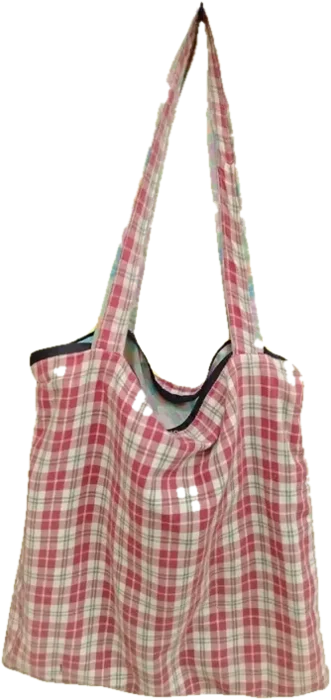
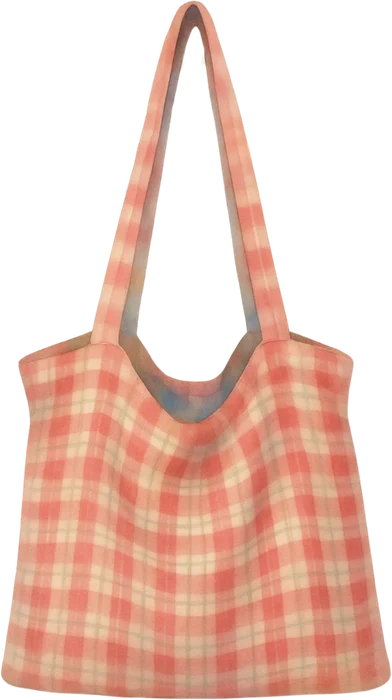
studio: Góc thử đồ as Anna asked — drawn bags, old close-ups, no laptop / origami; strap pieced across only
- 4 bag mẫu use Anna's drawings (the poster cut ate into the knotted
  strap); tools/wear-cuts.py leaves them (DRAWN)
- Dây đeo cổ tay and Bloom Charm keep their old drawings in the corner,
  like the scrunchie (GemWear.MAC)
- the laptop sleeve and the Origami pouch are not tried on
  (20261025b_thu_do_bot.sql, run); one's own designs: bags only
- Bàn thiết kế: the wrist strap has no "Ghép dọc" any more; an old code of
  it opens "Ghép ngang", both fabrics kept

Claude-Session: https://claude.ai/code/session_01XuGc1emL7LJH73FGACZt11

diff --git a/js/patch.js b/js/patch.js
@@ -87,9 +87,8 @@
     // (top / bottom half) or along it (left / right half) (Anna 22/10); a
     // machine stitch can run down its middle (opts e: Gem's Janome)
     daydeo:    { sku: 'daydeo',    vi: 'Dây đeo cổ tay', en: 'Wrist strap',     shape: 'strap', grid: 1, span: 30,
-                 layouts: ['mot', 'ngang', 'doc', 'tuve'], opts: 'e',
-                 names: { mot: { vi: 'Một vải', en: 'One fabric' }, ngang: { vi: 'Ghép ngang', en: 'Pieced across' },
-                          doc: { vi: 'Ghép dọc', en: 'Pieced lengthwise' } } },
+                 layouts: ['mot', 'ngang', 'tuve'], opts: 'e',
+                 names: { mot: { vi: 'Một vải', en: 'One fabric' }, ngang: { vi: 'Ghép ngang', en: 'Pieced across' } } },
     // Bags: one tab "Túi", the shape picked on it (from Gem's own bags, and
     // two shapes many makers sew); the laptop sleeve is a tab of its own,
     // with or without a shoulder strap. A designed bag is ordered as the
@@ -149,7 +148,9 @@
   // now piece the one side, across)
   // (the origami's "hai" was every other sector of the hexagon: its two
   // fabrics become the base and the petals; its cut lines, one fabric)
-  var LEGACY = { bloom: { mot: 'hoa3', hai: 'hoa3', net: 'hoa3' }, bookmark: { vuong: 'hai', net: 'mot' }, daydeo: { net: 'mot', hai: 'ngang' },
+  // (the strap's "doc", two strips along it, is gone: Anna 25/10 keeps only
+  // "ghép ngang"; its two fabrics piece it across)
+  var LEGACY = { bloom: { mot: 'hoa3', hai: 'hoa3', net: 'hoa3' }, bookmark: { vuong: 'hai', net: 'mot' }, daydeo: { net: 'mot', hai: 'ngang', doc: 'ngang' },
     origami: { hai: 'canh', net: 'mot' } };
   var PRODUCT_ORDER = ['goi', 'lotcoc', 'scrunchie', 'origami', 'oxford', 'bloom', 'bookmark', 'daydeo', 'tuitote', 'laptop'];
 
@@ -915,7 +916,6 @@
       return [nen].concat([1, 2, 3, 4, 5, 6].map(function (n) { return canh + ' ' + n; }));
     }
     if (d.product === 'daydeo' && d.layout === 'ngang') return [vi ? 'Nửa trên' : 'Top half', vi ? 'Nửa dưới' : 'Bottom half'];
-    if (d.product === 'daydeo' && d.layout === 'doc') return [vi ? 'Nửa trái' : 'Left half', vi ? 'Nửa phải' : 'Right half'];
     var parts = partsOf(d);
     if (!parts.length || !MAIN_NAMES[d.product]) return null;
     var n = slots(d), out = [];
@@ -1569,7 +1569,7 @@
     } },
     // the strap stands upright, its middle on x 170 (measured on the mask):
     // pieced across at y 120 (its middle), along it at x 170
-    strap: { n: 'daydeo', top: 1, strap: { x: 170, y: 120 } },
+    strap: { n: 'daydeo', top: 1, strap: { y: 120 } },
     // the corner bookmark: a square back and a triangle flap that slips over
     // the corner of a page
     bookmark: { n: 'bookmark', diag: 1 },
@@ -1691,12 +1691,6 @@
       out += '<rect width="340" height="' + sy + '" fill="' + f(0, [0, 0, 340, sy]) + '"/>' +
         '<rect y="' + sy + '" width="340" height="' + (340 - sy) + '" fill="' + f(1, [0, sy, 340, 340 - sy]) + '"/>' +
         '<path d="M0 ' + sy + 'H340' + SEAM;
-    } else if (A.strap && d.layout === 'doc') {
-      // the strap: two strips along it, the seam down the middle
-      var sx = A.strap.x;
-      out += '<rect width="' + sx + '" height="340" fill="' + f(0, [0, 0, sx, 340]) + '"/>' +
-        '<rect x="' + sx + '" width="' + (340 - sx) + '" height="340" fill="' + f(1, [sx, 0, 340 - sx, 340]) + '"/>' +
-        '<path d="M' + sx + ' 0V340' + SEAM;
     } else if (d.layout === 'hai' && A.diag) {
       // the bookmark: the square back (0) and the triangle flap (1)
       out += '<path d="M0 0L0 340L340 340Z" fill="' + f(0, FULL) + '"/><path d="M0 0L340 0L340 340Z" fill="' + f(1, FULL) + '"/>' +

diff --git a/js/wear.js b/js/wear.js
@@ -40,29 +40,29 @@ window.GemWear = (function () {
     scrunchie: { slot: 'hair',  h: 0.075, dy: 0,     ax: 0.55, ay: 0.5,  img: 'images/studio/wear/scrunchie.webp' }
   };
 
-  // A piece sewn from one's design (GemPatch product id): how it is worn.
+  // A bag sewn from one's design (GemPatch product id): how it is worn.
   // The picture is GemPatch.svg of the design, its viewBox cut to the
-  // piece (box: x, y, w, h of the 340 board); ax / ay on that box. Not the
-  // scrunchie: on the character it reads as a hair flower (Anna 25/10).
+  // piece (box: x, y, w, h of the 340 board); ax / ay on that box. Bags
+  // only (Anna 25/10): not the laptop sleeve, and the small pieces keep
+  // their own drawings (MAC)
   var DESIGN = {
-    origami:   { slot: 'charm', h: 0.09, ax: 0.15, ay: 0,   box: [1, 1, 338, 339] },
     oxford:    { slot: 'bag',   h: 0.2,  ax: 0.49, ay: 0,   box: [47, 0, 246, 340] },
-    bloom:     { slot: 'charm', h: 0.1,  ax: 0.5,  ay: 0,   box: [83, 0, 174, 340] },
-    daydeo:    { slot: 'wrist', h: 0.13, ax: 0.5,  ay: 0,   box: [136, 0, 68, 340] },
     tuitote:   { slot: 'bag',   h: 0.34, ax: 0.5,  ay: 0,   box: [60, 0, 220, 340] },
     tuino:     { slot: 'bag',   h: 0.28, ax: 0.6,  ay: 0,   box: [19, 0, 302, 340] },
     tuikhoa:   { slot: 'bag',   h: 0.3,  ax: 0.49, ay: 0,   box: [22, 0, 296, 340] },
     tuitamgiac: { slot: 'bag',  h: 0.28, ax: 0.5,  ay: 0,   box: [0, 0, 340, 340] },
-    tuibuoc:   { slot: 'bag',   h: 0.28, ax: 0.5,  ay: 0,   box: [0, 0, 340, 340] },
-    laptop:    { slot: 'bag',   h: 0.2,  ax: 0.5,  ay: 0,   box: [0, 70, 340, 200] },
-    laptopq:   { slot: 'bag',   h: 0.25, ax: 0.5,  ay: 0,   box: [0, 37, 340, 266] }
+    tuibuoc:   { slot: 'bag',   h: 0.28, ax: 0.5,  ay: 0,   box: [0, 0, 340, 340] }
   };
 
   // A drawing of the piece being worn, shown in the fitting corner in place
-  // of the character: a hair tie on a character facing us is a dot by the
-  // ear; the drawing shows it holding a ponytail (Anna 25/10: "phải kiểu
-  // đeo như cũ")
-  var MAC = { scrunchie: 'images/studio/wear/scrunchie-mac.webp' };
+  // of the character, as it always was (Anna 25/10: "phải kiểu đeo như
+  // cũ"): a hair tie on a character facing us is a dot by the ear; the
+  // wrist strap and the charm hang from a bag on the shoulder
+  var MAC = {
+    scrunchie: 'images/studio/wear/scrunchie-mac.webp',
+    daydeo: 'images/studio/wear/daydeo-mac.webp',
+    bloom: 'images/studio/wear/bloom-mac.webp'
+  };
 
   var IMG = /^(images\/studio\/[a-z0-9\/_-]+\.(webp|png)|https:\/\/dxdovvqsfjeizsoprrfn\.supabase\.co\/storage\/v1\/object\/public\/gem-media\/[A-Za-z0-9%._-]+)$/;
   function num(v, lo, hi, d) { return typeof v === 'number' && isFinite(v) ? Math.min(hi, Math.max(lo, v)) : d; }

diff --git a/studio.html b/studio.html
@@ -13,9 +13,9 @@
   <link rel="preconnect" href="https://fonts.gstatic.com" crossorigin>
   <link href="https://fonts.googleapis.com/css2?family=Be+Vietnam+Pro:wght@300;400;500;600&family=Dancing+Script:wght@400;500;600&family=Nunito:wght@400;500;600;700;800&display=swap" rel="stylesheet">
   <link rel="preload" as="image" href="images/studio/bg/ngoai.webp">
-  <link rel="stylesheet" href="css/style.css?v=20261071">
-  <link rel="stylesheet" href="css/studio.css?v=20261071">
-  <script src="js/i18n.js?v=20261071" defer></script>
+  <link rel="stylesheet" href="css/style.css?v=20261072">
+  <link rel="stylesheet" href="css/studio.css?v=20261072">
+  <script src="js/i18n.js?v=20261072" defer></script>
 </head>
 <body class="studio-page" data-basket data-order-source="studio">
 
@@ -85,16 +85,16 @@
     </div>
   </div>
 
-  <script src="js/gem-db.js?v=20261071" defer></script>
-  <script src="js/vietqr.js?v=20261071" defer></script>
+  <script src="js/gem-db.js?v=20261072" defer></script>
+  <script src="js/vietqr.js?v=20261072" defer></script>
   <!-- patch.js: thiết kế riêng từ bàn chắp vải (giỏ hàng vẽ lại và ghi vào đơn) -->
-  <script src="js/patch.js?v=20261071" defer></script>
+  <script src="js/patch.js?v=20261072" defer></script>
   <!-- collection.js: Tủ sưu tầm, lưu trên máy khách (sau patch.js, trước basket.js) -->
-  <script src="js/collection.js?v=20261071" defer></script>
-  <script src="js/basket.js?v=20261071" defer></script>
-  <script src="js/studio-layout.js?v=20261071" defer></script>
+  <script src="js/collection.js?v=20261072" defer></script>
+  <script src="js/basket.js?v=20261072" defer></script>
+  <script src="js/studio-layout.js?v=20261072" defer></script>
   <!-- wear.js: Góc thử đồ, chỗ đeo trên nhân vật (dùng chung với admin.html) -->
-  <script src="js/wear.js?v=20261071" defer></script>
-  <script src="js/studio.js?v=20261071" defer></script>
+  <script src="js/wear.js?v=20261072" defer></script>
+  <script src="js/studio.js?v=20261072" defer></script>
 </body>
 </html>

diff --git a/admin.html b/admin.html
@@ -10,20 +10,20 @@
   <link rel="preconnect" href="https://fonts.googleapis.com">
   <link rel="preconnect" href="https://fonts.gstatic.com" crossorigin>
   <link href="https://fonts.googleapis.com/css2?family=Be+Vietnam+Pro:wght@300;400;500;600&family=Nunito:wght@400;500;600;700;800&display=swap" rel="stylesheet">
-  <link rel="stylesheet" href="css/style.css?v=20261071">
-  <link rel="stylesheet" href="css/admin.css?v=20261071">
+  <link rel="stylesheet" href="css/style.css?v=20261072">
+  <link rel="stylesheet" href="css/admin.css?v=20261072">
 </head>
 <body class="admin-body">
 
   <!-- Toàn bộ giao diện dựng bởi js/admin.js -->
   <div id="admin-root"></div>
 
-  <script src="js/gem-db.js?v=20261071"></script>
-  <script src="js/img-tools.js?v=20261071" defer></script>
-  <script src="js/patch.js?v=20261071" defer></script>
-  <script src="js/studio-layout.js?v=20261071" defer></script>
-  <script src="js/studio-editor.js?v=20261071" defer></script>
-  <script src="js/wear.js?v=20261071" defer></script>
-  <script src="js/admin.js?v=20261071" defer></script>
+  <script src="js/gem-db.js?v=20261072"></script>
+  <script src="js/img-tools.js?v=20261072" defer></script>
+  <script src="js/patch.js?v=20261072" defer></script>
+  <script src="js/studio-layout.js?v=20261072" defer></script>
+  <script src="js/studio-editor.js?v=20261072" defer></script>
+  <script src="js/wear.js?v=20261072" defer></script>
+  <script src="js/admin.js?v=20261072" defer></script>
 </body>
 </html>

diff --git a/tools/check-studio.py b/tools/check-studio.py
@@ -3653,10 +3653,10 @@ async def guidance(browser, db):
     await pg.wait_for_timeout(300)
     got = [await at(170, 60), await at(170, 200)]
     check(got == [0, 1], f'"Ghép ngang": top half and bottom half ({got})')
-    await js_click(pg, '.pt-layouts [data-layout="doc"]')
-    await pg.wait_for_timeout(300)
-    got = [await at(152, 150), await at(188, 150)]
-    check(got == [0, 1], f'"Ghép dọc": left half and right half, each takes its own tap ({got})')
+    # "Ghép dọc" is gone (Anna 25/10): an old code of it opens pieced across
+    lays = await pg.evaluate("[...document.querySelectorAll('.pt-layouts [data-layout]')].map(b => b.dataset.layout)")
+    old = await pg.evaluate("(() => { const d = GemPatch.parse('2~daydeo~doc~~~~~~~~AB'); return d && [d.layout, d.fab]; })()")
+    check('doc' not in lays and 'ngang' in lays and old == ['ngang', 'AB'], f'the strap: "Ghép ngang" only; an old "ghép dọc" code opens across ({lays}, {old})')
     check(await pg.evaluate("document.querySelectorAll('.pt-board image[href*=\"mon-daydeo-mask\"]').length") == 1, 'one strap, not two')
     # an old two-sided code: its two fabrics piece the one side, across
     old = await pg.evaluate("(() => { const d = GemPatch.parse('2~daydeo~hai~~~~~~~~AB'); return d && [d.layout, d.fab]; })()")
@@ -3669,12 +3669,12 @@ async def guidance(browser, db):
     await js_click(pg, '[data-stitch="5"]')
     await js_click(pg, '[data-thread="2"]')
     await pg.wait_for_timeout(300)
-    rt = await pg.evaluate("(() => { const d = GemPatch.parse('2~daydeo~doc~~~~~~~~AB~~e52'); return d && [d.ext.e, d.ext.ec, GemPatch.encode(d).split('~').pop()]; })()")
+    rt = await pg.evaluate("(() => { const d = GemPatch.parse('2~daydeo~ngang~~~~~~~~AB~~e52'); return d && [d.ext.e, d.ext.ec, GemPatch.encode(d).split('~').pop()]; })()")
     check(rt == [5, 2, 'e52'], f'the stitch travels in the design code ({rt})')
     check(await pg.evaluate("GemPatch.parse('2~goi~mot~~~~~~~~A~~e52') === null"), 'a cushion takes no stitch')
     lines = await pg.evaluate("document.querySelector('.pt-price-lines').textContent")
     check('Thêu chỉ giữa dây' in lines, f'the stitch is in the price ({lines})')
-    order = await pg.evaluate("GemPatch.describe('2~daydeo~doc~~~~~~~~AB~~e52', 'vi')")
+    order = await pg.evaluate("GemPatch.describe('2~daydeo~ngang~~~~~~~~AB~~e52', 'vi')")
     check('thêu chỉ giữa dây: hình thoi, chỉ đỏ gạch' in order, f'the order says which stitch, which thread ({order})')
     # a bag's handle takes it too (not drawn); the sleeve without a handle does not
     await js_click(pg, '.pt-tab[data-product="tuitote"]')
@@ -3926,6 +3926,14 @@ async def thudo(browser, db):
         ox = await pg.evaluate(vis)
         check(sc == [True, False, 'images/studio/wear/scrunchie-mac.webp'] and ox[:2] == [False, True],
               f'{name}: Dây buộc tóc shows its close-up as before; Oxford, the character ({sc}, {ox[:2]})')
+        # the wrist strap and the charm too: their drawings, as before
+        mac = []
+        for sku in ('daydeo', 'bloom'):
+            await js_click(pg, f'.fit-pick[data-try="{sku}"]')
+            await pg.wait_for_timeout(200)
+            mac.append(await pg.evaluate(vis))
+        check(mac == [[True, False, 'images/studio/wear/daydeo-mac.webp'], [True, False, 'images/studio/wear/bloom-mac.webp']],
+              f'{name}: Dây đeo cổ tay, Bloom Charm: their own drawings as before ({mac})')
         # the bag with Mẫu: its chips, each its own picture; the one sold out shown, not bought
         await js_click(pg, '[data-try="tui-di-choi/jeans-xanh"]')
         await pg.wait_for_timeout(300)

diff --git a/tools/wear-cuts.py b/tools/wear-cuts.py
@@ -10,6 +10,9 @@ of it caught between the straps. Small cream bits of a print stay.
 
     python3 tools/wear-cuts.py              → images/studio/wear/<sku>-<mẫu>.webp
 
+Mẫu Gem has a drawing of (DRAWN, sent by Anna 25/10: the photo cut ate into
+the knotted strap) are not cut: their drawing is the picture.
+
 The migration (supabase/migrations/20261025_thu_do.sql) points each mẫu's
 "cut" at its file. A new mẫu later: Admin → Sản phẩm → Sửa → the mẫu's
 "Ảnh cắt nền" (Xoá nền trắng / a file), no need to run this again.
@@ -29,6 +32,8 @@ TOL = 22                      # how far from the poster's paper a pixel is the b
 BAND = (0.04, 0.84)           # between the header and the big title
 GLOW = (240, 229, 173)        # the cream glow round the bag
 MAX = 700                     # longest side of the result
+# drawn by Gem (transparent PNGs, cropped + shrunk into images/studio/wear/)
+DRAWN = {'tui-di-choi-hoa-xanh', 'tui-di-cho-caro-hong', 'tui-di-choi-jeans-hong', 'tui-di-choi-jeans-vang'}
 
 
 def cut(path):
@@ -79,6 +84,9 @@ def main():
         if path.endswith('-thumb.webp'):
             continue
         name = os.path.basename(path)[len('vai-vun-'):-len('.webp')]
+        if name in DRAWN:
+            print(name, 'drawn, kept')
+            continue
         im = cut(path)
         if im is None:
             print('nothing found:', name)

diff --git a/tools/studio-assets.py b/tools/studio-assets.py
@@ -435,13 +435,13 @@ def build_cast(src):
 # ---------------------------------------------------------------------------
 PIECES = {
     # character holding it + the piece; '-': not kept (Góc thử đồ shows the
-    # visitor's own character wearing the piece since 25/10/2026; the
-    # scrunchie keeps its close-up: a hair tie isn't seen from the front)
+    # visitor's own character with a bag in hand since 25/10/2026; the
+    # scrunchie, the wrist strap and the charm keep their drawings)
     'wear-oxford':    ['-wear/oxford-mac', 'wear/oxford'],
     'wear-scrunchie': ['wear/scrunchie-mac', 'wear/scrunchie'],
-    'wear-daydeo':    ['-wear/daydeo-mac', 'wear/daydeo'],
+    'wear-daydeo':    ['wear/daydeo-mac', 'wear/daydeo'],
     'wear-denim':     ['-wear/denim-mac', 'wear/denim'],
-    'wear-bloom':     ['-wear/bloom-mac', 'wear/bloom'],
+    'wear-bloom':     ['wear/bloom-mac', 'wear/bloom'],
     'ud-vay':         ['udon/ud-vay'],                         # waving
     'ud-ngoi':        ['udon/ud-ngoi'],                        # sitting
     'ud-ngu':         ['udon/ud-ngu'],                         # asleep

diff --git a/docs/design.md b/docs/design.md
@@ -3101,6 +3101,11 @@ lại phần dò điểm và dán `WEAR_AT` mới. Áo (đổi dáng người) t
 vẽ lại khung, không dán đè được. (25/10: `WEAR_AT` / `WEAR` chuyển sang `js/wear.js`, món thử đọc từ database:
 xem "Góc thử đồ từ database".)
 
+### Dây đeo cổ tay: chỉ "Ghép ngang" (25/10/2026)
+
+Anna: bỏ "Ghép dọc" ở Bàn thiết kế. `PRODUCTS.daydeo.layouts` còn `mot` / `ngang` / `tuve`; mã cũ có
+`doc` mở thành `ngang`, giữ hai vải (`LEGACY.daydeo.doc`).
+
 ### Góc thử đồ từ database (25/10/2026)
 
 Anna: thêm phụ kiện / túi để nhân vật đeo thử; không vẽ thêm tranh cho từng món.
@@ -3119,22 +3124,23 @@ Anna: thêm phụ kiện / túi để nhân vật đeo thử; không vẽ thêm 
   - Món không có Mẫu: `wear.img` nếu có, không thì "Ảnh cắt nền" của món.
   - Món có Mẫu mà vài mẫu đã có ảnh riêng: mẫu chưa có ảnh **không thử được** (chip mờ). Lý do: lấy ảnh chung sẽ hiện nhầm túi khác.
 - **8 mẫu của Túi đi chơi / Túi đi chợ**: tách từ chính poster của mẫu bằng `tools/wear-cuts.py`, ra `images/studio/wear/<sku>-<mẫu>.webp`.
+  - 25/10 (Anna: "cắt ảnh cắt luôn vào cái túi"): 4 mẫu dùng **tranh vẽ Anna gửi** (nền trong suốt, chỉ cắt sát + thu nhỏ): hoa-xanh, caro-hong, jeans-hong, jeans-vang. `wear-cuts.py` bỏ qua chúng (`DRAWN`). 4 mẫu còn lại vẫn là ảnh tách từ poster; có tranh thì thay file cùng tên + thêm vào `DRAWN`.
   - Cách tách: giữ khối lớn nhất không phải nền giấy, bỏ chữ, bóc viền kem quanh túi; chấm kem nhỏ trong hoạ tiết vẫn giữ.
   - Mẫu mới sau này: admin → mẫu đó → "Ảnh cắt nền của mẫu" (Xoá nền trắng / tải ảnh đã tách nền).
 - **Xem trước = chính nhân vật khách chọn ở cửa** (dáng đứng thẳng) đeo đồ đang đeo + món đang chạm. Bỏ 4 tranh người mẫu `wear/*-mac.webp`; `tools/studio-assets.py` không xuất chúng nữa (tên có `-`).
-  - **Trừ Dây buộc tóc** (Anna: "phải kiểu đeo như cũ"): khung xem trước vẫn là tranh cận cảnh tóc buộc đuôi ngựa `wear/scrunchie-mac.webp` (`GemWear.MAC`). Lý do: nhân vật nhìn thẳng thì dây buộc tóc thành một chấm cạnh tai, trông như cài hoa. Ngoài cảnh vẫn đeo ở gáy như trước.
+  - **Trừ Dây buộc tóc, Dây đeo cổ tay, Bloom Charm** (Anna: "phải kiểu đeo như cũ"): khung xem trước vẫn là tranh cũ `wear/<sku>-mac.webp` (`GemWear.MAC`). Lý do: dây buộc tóc trên nhân vật nhìn thẳng thành một chấm cạnh tai, trông như cài hoa; dây đeo và charm trong tranh cũ treo trên túi đeo vai. Ngoài cảnh vẫn đeo như trước.
   - Cách đeo "Trên tóc" hợp với **cài hoa** (Gem sắp chụp và đăng sản phẩm này): admin chọn "Trên tóc (cài hoa)".
   - Dưới hình: chip Mẫu, "Đeo thử" / "Tháo ra", "Thêm vào giỏ" (đúng mẫu đang thử; mẫu hết hàng xem được, không mua được).
   - Món đang đeo lưu theo id: `<sku>`, `<sku>/<mẫu>` hoặc `d:<mã thiết kế>`. Mỗi lượt lưu ở sessionStorage `gem-mac`; món đã mua / thiết kế đã mua lưu ở localStorage `gem-mac`.
   - Món không còn được thử bị bỏ khi database trả lời.
-- **Túi tự thiết kế**: chỉ khi khách **đã mua**, tức Tủ sưu tầm có `owned` kèm mã thiết kế. Thử được túi, Origami, Bloom, dây đeo tay; không thử dây buộc tóc tự thiết kế (đeo lên nhân vật trông như cài hoa).
+- **Túi tự thiết kế**: chỉ khi khách **đã mua**, tức Tủ sưu tầm có `owned` kèm mã thiết kế. Chỉ **túi** (Oxford, các dáng Túi); không túi laptop, không các món nhỏ.
   - Vẽ bằng `GemPatch.svg` của thiết kế, viewBox cắt sát món (`GemWear.DESIGN[món].box`, đo từ 12 món của Bàn thiết kế).
   - Món mua ở máy khác chỉ về dạng sản phẩm thường (mã thiết kế chỉ nằm trong ghi chú đơn), nên chỉ thử được trên máy đã đặt.
 - **Admin → Sản phẩm → Sửa → "Đeo thử ở Góc thử đồ"**: bật / tắt, cách đeo, cỡ (thanh kéo), xem trước trên Bạn 1–4.
   - Kéo món trên hình để đặt vào tay.
   - "Dùng ảnh cắt nền thay tranh vẽ" bỏ `wear.img`.
   - Chỉ gửi `wear` khi bản ghi đã có cột này (sau migration).
-- **Cấu hình ban đầu** (migration): 5 món cũ như trước; Túi đi chơi 0.32, Túi đi chợ 0.36, Túi laptop 0.2 (cầm tay); Origami là charm (móc khoá, cầm ở vòng).
+- **Cấu hình ban đầu** (migration): 5 món cũ như trước; Túi đi chơi 0.32, Túi đi chợ 0.36 (cầm tay). Túi laptop và Origami **không** thử (Anna 25/10, `20261025b_thu_do_bot.sql`).
   - Cỡ đã xem trên 4 nhân vật; chỉnh tiếp ở admin.
 - **Database chưa có cột / không trả lời**: dùng lại 5 món cũ (`GemWear.LEGACY`).
 - Ảnh cắt nền là ảnh chụp, nhân vật là tranh vẽ: chấp nhận lệch phong cách, như kệ hàng đang dùng.
